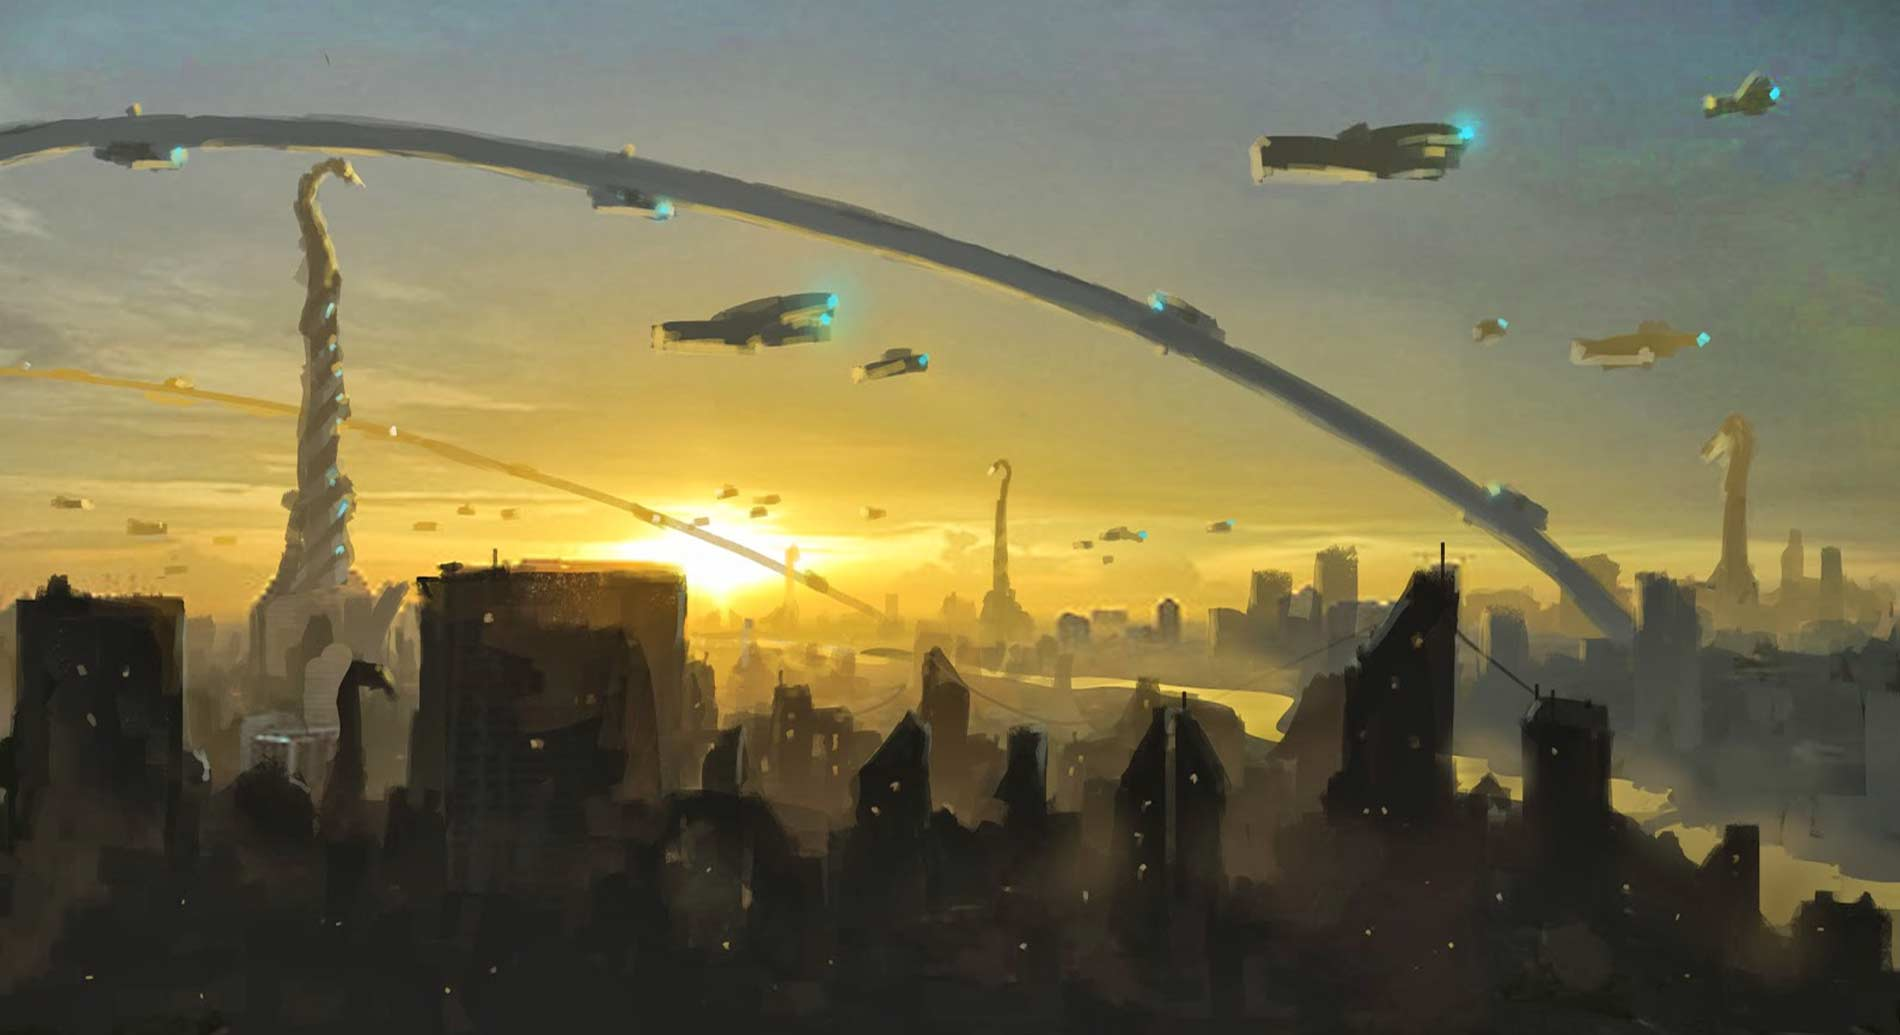
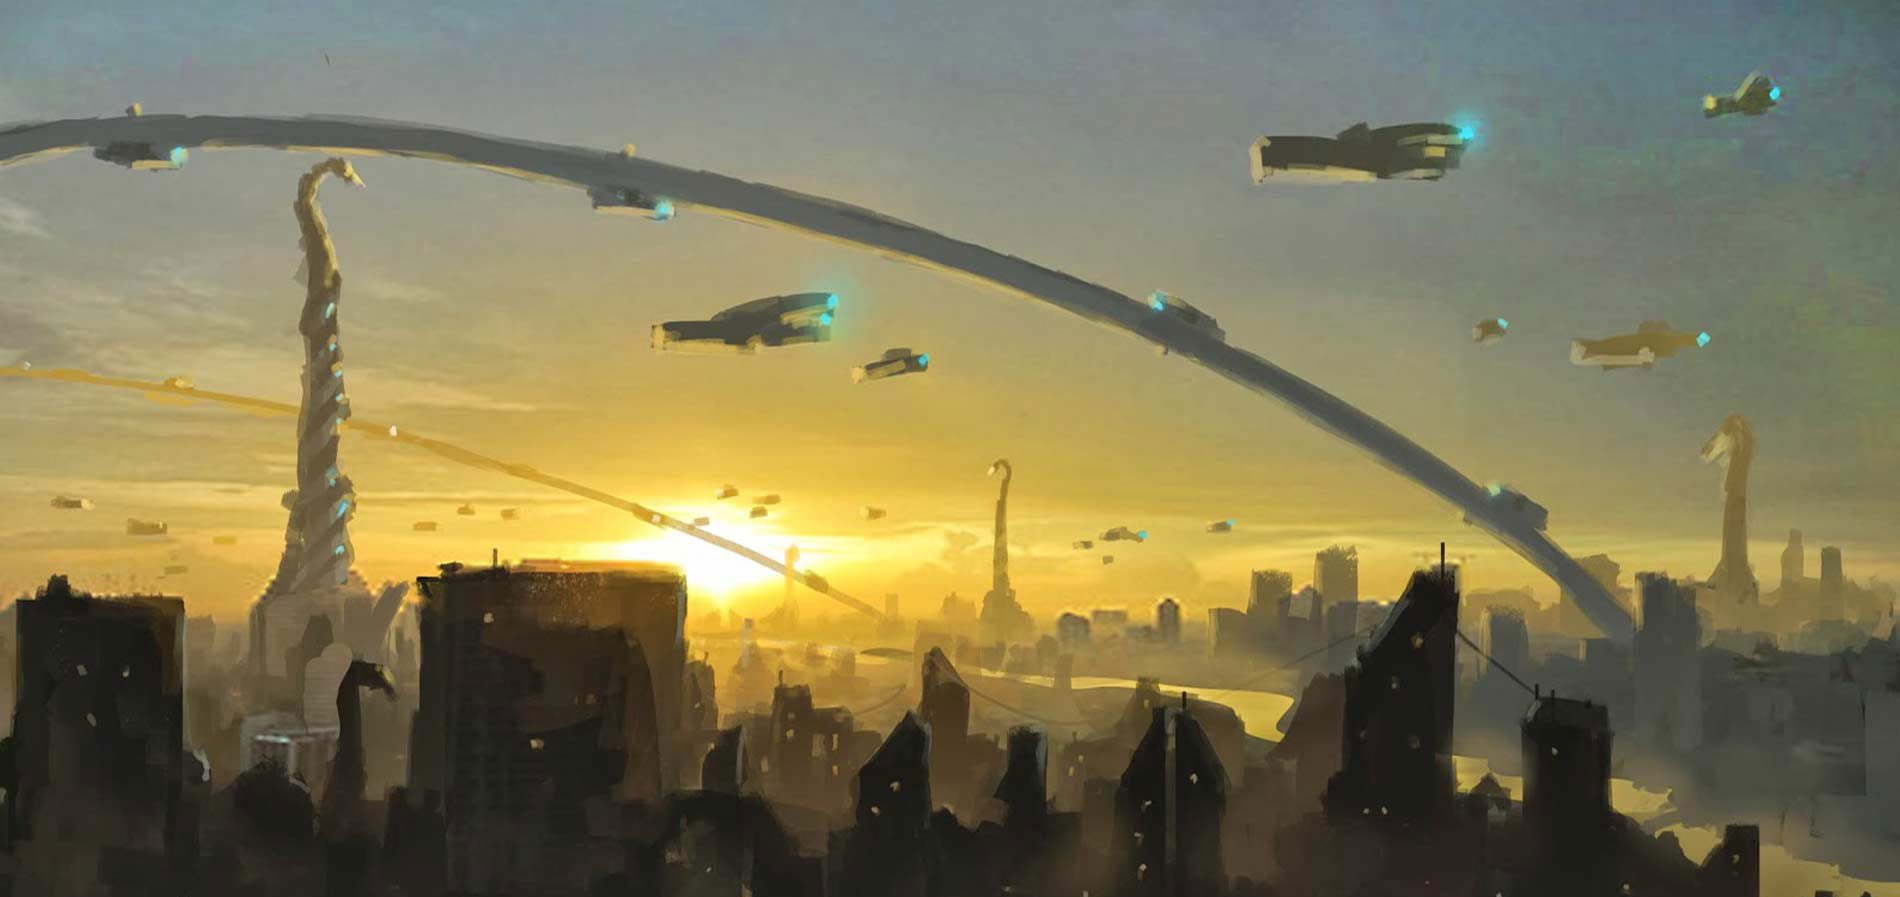
updated index 17

diff --git a/index.html b/index.html
@@ -24,14 +24,14 @@
     <script src="assets/js/bootstrap.min.js"></script>
 
     <link rel="stylesheet" href="assets/css/bootstrap.min.css">
-    <link rel="stylesheet" type="text/css" href="assets/css/styles.css">
+    <link rel="stylesheet" type="text/css" href="assets/css/styles.css?v=1.1">
 
     <link href="https://fonts.googleapis.com/css?family=Raleway:400,500,900" rel="stylesheet">
     <link href="https://fonts.googleapis.com/icon?family=Material+Icons" rel="stylesheet">
     <script defer src="https://use.fontawesome.com/releases/v5.0.6/js/all.js"></script>
 
   <title>Matthew Norkaitis</title>
-  <meta name="description" content="CEO Game Smartz, Owner Tech Magic LLC, Irvine Ca.">
+  <meta name="description" content="Matthew Norkaitis Portfolio - Irvine Ca.">
 
 
 </head>

diff --git a/assets/css/styles.css b/assets/css/styles.css
@@ -55,6 +55,7 @@ a {
   background-color: #222;
   background-image: url('../img/gold-horizons-large-36.jpg');
   background-repeat: no-repeat;
+  background-size: cover;
   min-height: 700px;
   margin-top: -70px;
 }
